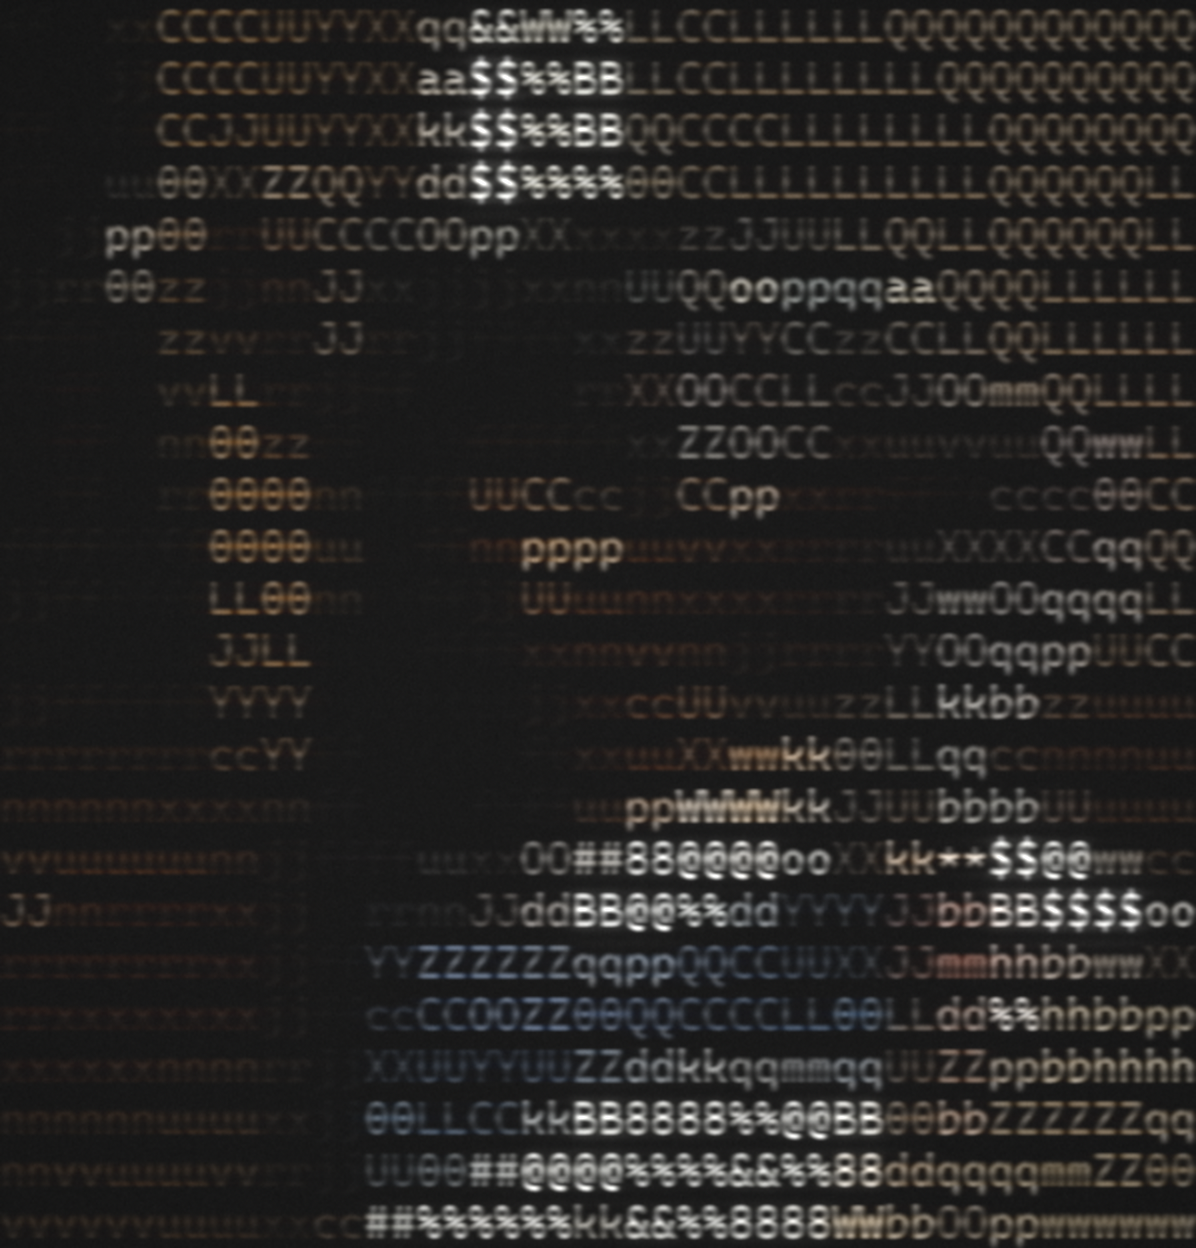
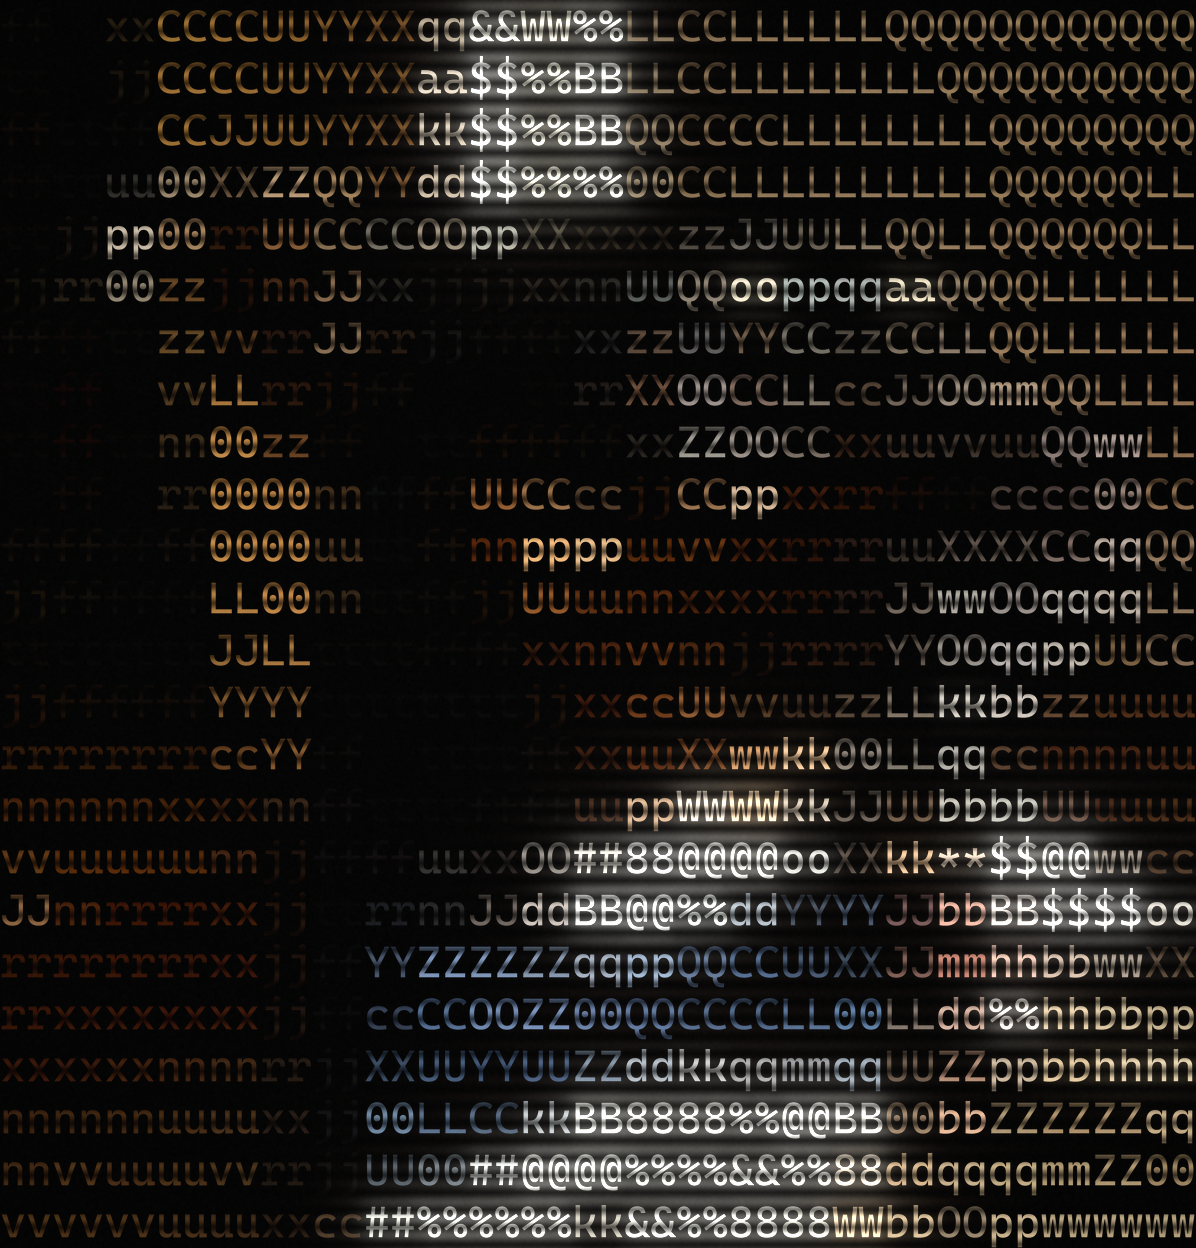
Tweaked all the presets so they look nice

Changed region(s): [[0.0, 0.0, 1.0, 1.0]]

diff --git a/asciicrt.py b/asciicrt.py
@@ -11,7 +11,7 @@ Requires numpy and pillow.
     python asciicrt.py photo.jpg --rows 60 --show --no-raster
     python asciicrt.py photo.jpg --rows 180 --width-in 12 --height-in 18 --dpi 300 -o print.tiff
     python asciicrt.py photo.jpg --rows 120 --svg art.svg --no-raster
-    python asciicrt.py photo.jpg --rows 140 --preset clean -o print.png
+    python asciicrt.py photo.jpg --rows 140 --preset pop -o print.png
 
 Iterating on the CRT look without repeating the ASCII pass:
 
@@ -631,26 +631,26 @@ class CRT:
     output resolution reproduces identically at any other.
     """
     # optics
-    focus: float = 0.045           # beam defocus, in cell widths
-    bloom: float = 0.50            # phosphor glow strength
-    bloom_radius: float = 0.35     # in cell heights
+    focus: float = 0.0           # beam defocus, in cell widths
+    bloom: float = 0.60            # phosphor glow strength
+    bloom_radius: float = 0.4     # in cell heights
     bloom_threshold: float = 0.35
     halation: float = 0.30         # red bias of the widest glow halo
     # analogue signal
-    chroma_bleed: float = 0.40     # horizontal chroma smear, in cell widths
-    luma_bleed: float = 0.05       # horizontal luma smear, in cell widths
+    chroma_bleed: float = 0.0     # horizontal chroma smear, in cell widths
+    luma_bleed: float = 0.0       # horizontal luma smear, in cell widths
     # raster structure
-    scanline_depth: float = 0.75
+    scanline_depth: float = 0.9
     scanlines_per_row: float = 3.0
-    scanline_sigma: float = 0.19    # beam half-width as a fraction of pitch
+    scanline_sigma: float = 0.2    # beam half-width as a fraction of pitch
     scanline_shape: float = 1.0     # 1 = gaussian beam, >4 = hard square wave
-    scanline_phase: float = 0.0     # shift the raster relative to the text grid
+    scanline_phase: float = 0.2     # shift the raster relative to the text grid
     mask_strength: float = 0.0     # aperture grille (off by default)
     mask_pitch: float = 0.34       # in cell widths
     # colour / tube
     phosphor: str = "color"        # color | green | amber | white | blue
-    saturation: float = 1.06
-    black_level: float = 0.012
+    saturation: float = 1.09
+    black_level: float = 0.002
     contrast: float = 1.05
     brightness: float = 1.0
     gamma: float = 1.0
@@ -678,33 +678,28 @@ PRESETS = {
     "none": dict(focus=0, bloom=0, chroma_bleed=0, luma_bleed=0, scanline_depth=0,
                  mask_strength=0, saturation=1, black_level=0, contrast=1,
                  noise=0, vignette=0, beam_gain=0),
-    "subtle": dict(focus=0.03, bloom=0.28, bloom_radius=0.38, chroma_bleed=0.22,
-                   luma_bleed=0.03, scanline_depth=0.45, scanline_sigma=0.24,
-                   noise=0.007, vignette=0.14),
+    "subtle": dict(focus=0, bloom=0.28, bloom_radius=0.4, chroma_bleed=0.0,
+                   luma_bleed=0.0, scanline_depth=0.75, scanline_sigma=0.25,
+                   black_level=0.001, noise=0.007, vignette=0.14),
     "classic": dict(),  # dataclass defaults
-    "heavy": dict(focus=0.08, bloom=0.80, bloom_radius=0.65, bloom_threshold=0.26,
-                  halation=0.45, chroma_bleed=0.75, luma_bleed=0.11,
-                  scanline_depth=1.0, scanline_sigma=0.15, mask_strength=0.20,
-                  saturation=1.15,
-                  black_level=0.025, contrast=1.10, noise=0.018, hum=0.015,
-                  vignette=0.38),
-    "crisp": dict(focus=0.0, luma_bleed=0.0, chroma_bleed=0.25, bloom=0.22,
-                  bloom_radius=0.22, bloom_threshold=0.55, halation=0.15,
-                  scanline_depth=0.7, scanline_sigma=0.17, sharpen=0.35,
-                  noise=0.008, vignette=0.16),
+    "heavy": dict(focus=0.06, bloom=1.0, bloom_radius=0.65, bloom_threshold=0.26,
+                  halation=0.45, chroma_bleed=0.1, luma_bleed=0.03,
+                  scanline_depth=0.96, scanline_sigma=0.21, mask_strength=0.20,
+                  saturation=1.15, black_level=0.008, contrast=1.10, brightness=1.5,
+                  noise=0.01, hum=0.015, vignette=0.38),
     # Screen-shader look: hard square-wave scanlines, no optics, deep blacks
-    "clean": dict(focus=0.0, luma_bleed=0.0, chroma_bleed=0.0, bloom=0.4,
+    "pop": dict(focus=0.0, luma_bleed=0.0, chroma_bleed=0.0, bloom=0.8,
                   halation=0.0, scanline_depth=0.91, scanline_sigma=0.25,
                   scanline_shape=8.0, scanlines_per_row=4.0, scanline_phase=0.25,
-                  beam_gain=0.0, saturation=1.15, black_level=0.0, contrast=1.0, brightness=1.0,
+                  beam_gain=0.0, saturation=1.15, black_level=0.0, contrast=1.2, brightness=1.5,
                   sharpen=0.0, noise=0.0, vignette=0.0),
     "green": dict(phosphor="green", bloom=0.70, bloom_radius=0.55, halation=0.0,
-                  chroma_bleed=0.0, luma_bleed=0.06, scanline_depth=0.85,
-                  scanline_sigma=0.17, black_level=0.018, contrast=1.08,
+                  chroma_bleed=0.0, luma_bleed=0.02, scanline_depth=0.85,
+                  scanline_sigma=0.2, black_level=0.018, contrast=1.08,
                   noise=0.014, vignette=0.32),
     "amber": dict(phosphor="amber", bloom=0.70, bloom_radius=0.55, halation=0.15,
-                  chroma_bleed=0.0, luma_bleed=0.06, scanline_depth=0.85,
-                  scanline_sigma=0.17, black_level=0.018, contrast=1.08,
+                  chroma_bleed=0.0, luma_bleed=0.02, scanline_depth=0.85,
+                  scanline_sigma=0.2, black_level=0.018, contrast=1.08,
                   noise=0.014, vignette=0.32),
 }
 

diff --git a/README.md b/README.md
@@ -198,8 +198,7 @@ look you tune on a fast preview reproduces identically on a full-size print.
 | preset | optics | raster | good for |
 |---|---|---|---|
 | `none` | none | none | a clean, unprocessed terminal render |
-| `clean` | none | hard square wave | sharp, bright, punchy shader look |
-| `crisp` | minimal, with unsharp | round beam | CRT character with no softness cost |
+| `pop` | none | hard square wave | sharp, bright, punchy shader look |
 | `subtle` | light | round beam | a gentle period flavour |
 | `classic` | full | round beam | a photographed tube |
 | `heavy` | heavy | round beam | a worn out monitor |
@@ -207,10 +206,10 @@ look you tune on a fast preview reproduces identically on a full-size print.
 
 | | |
 |:---:|:---:|
-| <img src="./img/preset_clean.png" width="80%" alt="clean preset"> | <img src="./img/preset_crisp.png" width="80%" alt="crisp preset"> |
-| `clean` | `crisp` |
-| <img src="./img/preset_classic.png" width="80%" alt="classic preset"> | <img src="./img/preset_amber.png" width="80%" alt="amber preset"> |
-| `classic` | `amber` |
+| <img src="./img/preset_pop.png" width="80%" alt="none preset"> | <img src="./img/preset_classic.png" width="80%" alt="heavy preset"> |
+| `pop` | `classic` |
+| <img src="./img/preset_heavy.png" width="80%" alt="heavy preset"> | <img src="./img/preset_amber.png" width="80%" alt="amber preset"> |
+| `heavy` | `amber` |
 
 Small renders so the raster stays visible in the browser. On a full sheet the
 scanlines read as texture rather than stripes.
@@ -294,9 +293,9 @@ the resolved set with `--dump-params file.json`.
 
 | Parameter | Default | Description |
 |---|---|---|
-| `focus` | 0.045 | Isotropic beam defocus, in cell widths |
-| `bloom` | 0.50 | Phosphor glow amount. The largest single influence on apparent softness |
-| `bloom_radius` | 0.35 | Glow radius in cell heights, spread over octaves at 0.3x, 1.0x and 2.5x |
+| `focus` | 0.0 | Isotropic beam defocus, in cell widths |
+| `bloom` | 0.60 | Phosphor glow amount. The largest single influence on apparent softness |
+| `bloom_radius` | 0.4 | Glow radius in cell heights, spread over octaves at 0.3x, 1.0x and 2.5x |
 | `bloom_threshold` | 0.35 | Luminance above which pixels glow. Raise to confine glow to genuine highlights |
 | `halation` | 0.30 | Red bias of the widest glow octave, the scatter of light through the glass |
 
@@ -304,18 +303,18 @@ the resolved set with `--dump-params file.json`.
 
 | Parameter | Default | Description |
 |---|---|---|
-| `chroma_bleed` | 0.40 | Horizontal chroma smear in cell widths. Costs no sharpness, luminance is untouched |
+| `chroma_bleed` | 0.0 | Horizontal chroma smear in cell widths. Costs no sharpness, luminance is untouched |
 | `luma_bleed` | 0.05 | Horizontal luminance smear in cell widths |
 
 ### Raster structure
 
 | Parameter | Default | Description |
 |---|---|---|
-| `scanline_depth` | 0.75 | Scan line contrast. Applied in linear light, so a 2:1 ratio on screen needs roughly 0.79 here |
+| `scanline_depth` | 0.9 | Scan line contrast. Applied in linear light, so a 2:1 ratio on screen needs roughly 0.79 here |
 | `scanlines_per_row` | 3.0 | Scan lines per character row. Pitch is cell height divided by this |
-| `scanline_sigma` | 0.19 | Beam half-width as a fraction of pitch. With a square wave the bright duty cycle is exactly twice this |
+| `scanline_sigma` | 0.2 | Beam half-width as a fraction of pitch. With a square wave the bright duty cycle is exactly twice this |
 | `scanline_shape` | 1.0 | Beam cross-section. `1` is a round gaussian beam, `4` and above is a hard square wave |
-| `scanline_phase` | 0.0 | Shifts the raster against the text grid. Matters below about 3px pitch |
+| `scanline_phase` | 0.2 | Shifts the raster against the text grid. Matters below about 3px pitch |
 | `mask_strength` | 0.0 | Aperture grille RGB stripe. Off by default |
 | `mask_pitch` | 0.34 | Triad pitch in cell widths |
 
@@ -324,7 +323,7 @@ the resolved set with `--dump-params file.json`.
 | Parameter | Default | Description |
 |---|---|---|
 | `phosphor` | `color` | `color`, `green`, `amber`, `white` or `blue` |
-| `saturation` | 1.06 | Colour saturation, colour phosphor only |
+| `saturation` | 1.09 | Colour saturation, colour phosphor only |
 | `beam_gain` | 0.75 | Restores highlight brightness lost to blurring thin strokes |
 | `black_level` | 0.012 | Lifts blacks, since a tube never reaches true black |
 | `contrast` | 1.05 | Tube transfer curve exponent |
@@ -534,9 +533,9 @@ python asciicrt.py ./img/source/tia.jpg --rows 70 --px-width 1600 --dpi 96 --bit
 The four preset tiles:
 
 ```
-python asciicrt.py ./img/source/tia.jpg --rows 50 --px-width 700 --bit-depth 8 --preset clean   -o ./img/preset_clean.png
-python asciicrt.py ./img/source/tia.jpg --rows 50 --px-width 700 --bit-depth 8 --preset crisp   -o ./img/preset_crisp.png
+python asciicrt.py ./img/source/tia.jpg --rows 50 --px-width 700 --bit-depth 8 --preset pop     -o ./img/preset_pop.png
 python asciicrt.py ./img/source/tia.jpg --rows 50 --px-width 700 --bit-depth 8 --preset classic -o ./img/preset_classic.png
+python asciicrt.py ./img/source/tia.jpg --rows 50 --px-width 700 --bit-depth 8 --preset heavy   -o ./img/preset_heavy.png
 python asciicrt.py ./img/source/tia.jpg --rows 50 --px-width 700 --bit-depth 8 --preset amber   -o ./img/preset_amber.png
 ```
 
